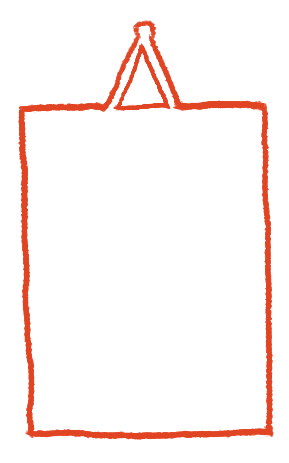
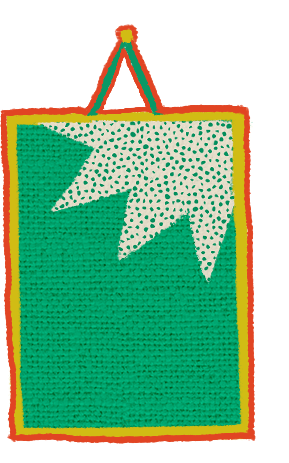
closing belum animasi2
udah ada kodenya tapi belom jalan

diff --git a/pages/ruangan/closing.vue b/pages/ruangan/closing.vue
@@ -1,6 +1,5 @@
 <template>
   <div class="main">
-
     <div class="loading" style="position: absolute; background-color: black; opacity: 1; z-index: 9999; width: 100vw; height: 100vh;" />
     <div v-show="slide === 2" class="narasi">
       {{ msg }}
@@ -228,22 +227,22 @@
 
       handleObjChange(e){
         console.log(e)
-        if (e.target.getAttribute('src') === "/closing/gantungan-out.png"){
+        if (e.target.getAttribute('src') === "/closing/1.png"){
           e.target.setAttribute('src', "/closing/gantungan-out.png")
-        } else if (e.target.getAttribute('src') === "/anger/meong2.png"){
-          e.target.setAttribute('src', "/anger/meong.png")
-        } else if (e.target.getAttribute('src') === "/anger/tgif.gif"){
-          e.target.setAttribute('src', "/anger/tv2.png")
+        } else if (e.target.getAttribute('src') === "/closing/balon1.png"){
+          e.target.setAttribute('src', "/closing/balon1-out.png")
+        } else if (e.target.getAttribute('src') === "/closing/cam1.png"){
+          e.target.setAttribute('src', "/closing/cam-out.png")
         }
       },
       handleObjChangeEnd(e){
         console.log(e)
-        if (e.target.getAttribute('src') === "/anger/kulopen.png"){
-          e.target.setAttribute('src', "/anger/kulklos.png")
-        } else if (e.target.getAttribute('src') === "/anger/meong.png"){
-          e.target.setAttribute('src', "/anger/meong2.png")
-        } else if (e.target.getAttribute('src') === "/anger/tv2.png"){
-          e.target.setAttribute('src', "/anger/tgif.gif")
+        if (e.target.getAttribute('src') === "/closing/gantungan-out.png"){
+          e.target.setAttribute('src', "/closing/1.png")
+        } else if (e.target.getAttribute('src') === "/closing/balon1-out.png"){
+          e.target.setAttribute('src', "/closing/balon1.png")
+        } else if (e.target.getAttribute('src') === "/closing/cam-out.png"){
+          e.target.setAttribute('src', "/closing/cam1.png")
         }
       },
 
@@ -416,6 +415,11 @@
   top: 6.5%;
 }
 .balon{
+  width: 17%;
+  left: 26.2%;
+  top: 3%;
+}
+.balon-out{
   width: 17%;
   left: 26.2%;
   top: 3%;
